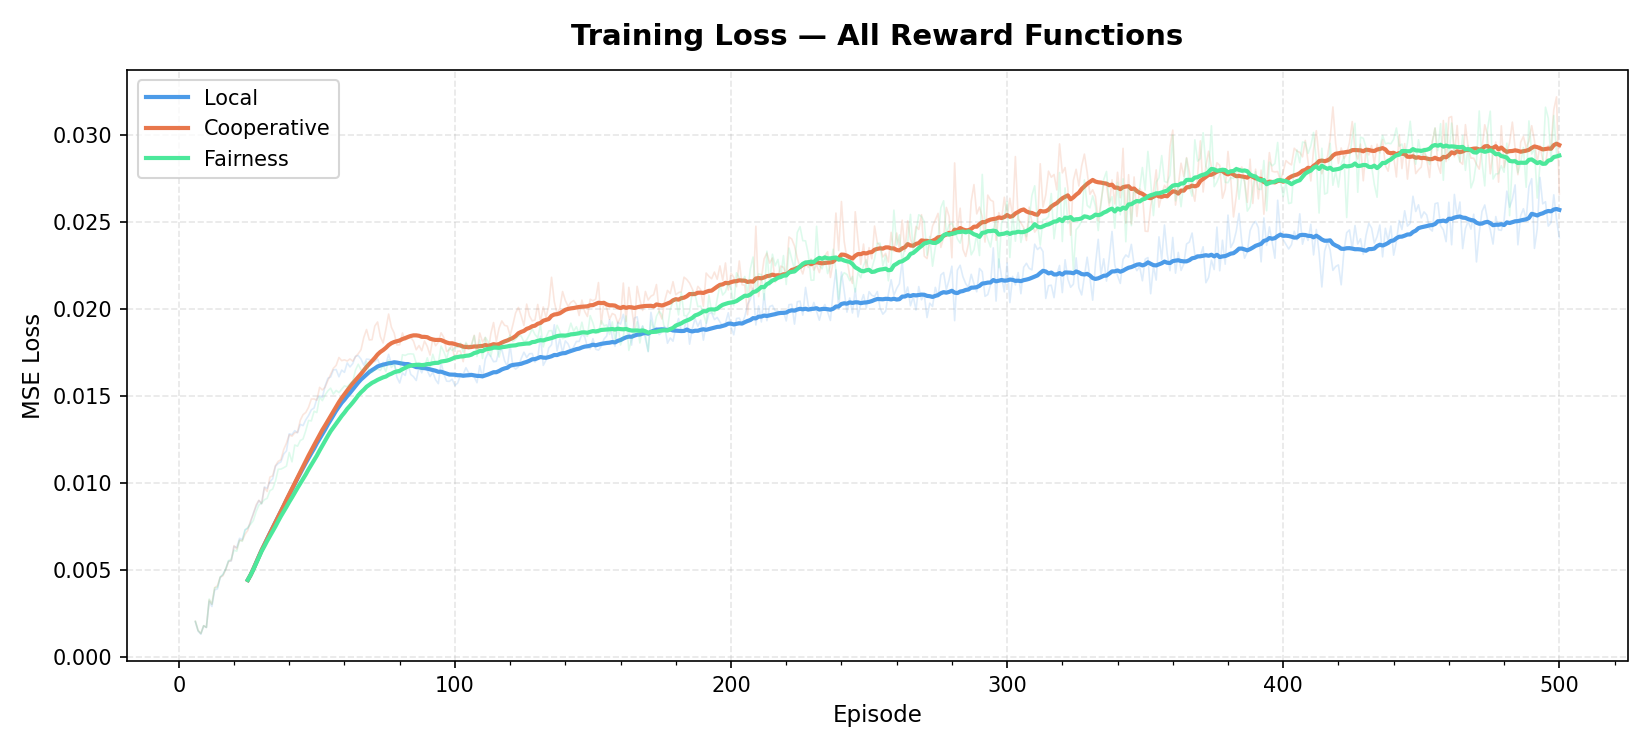
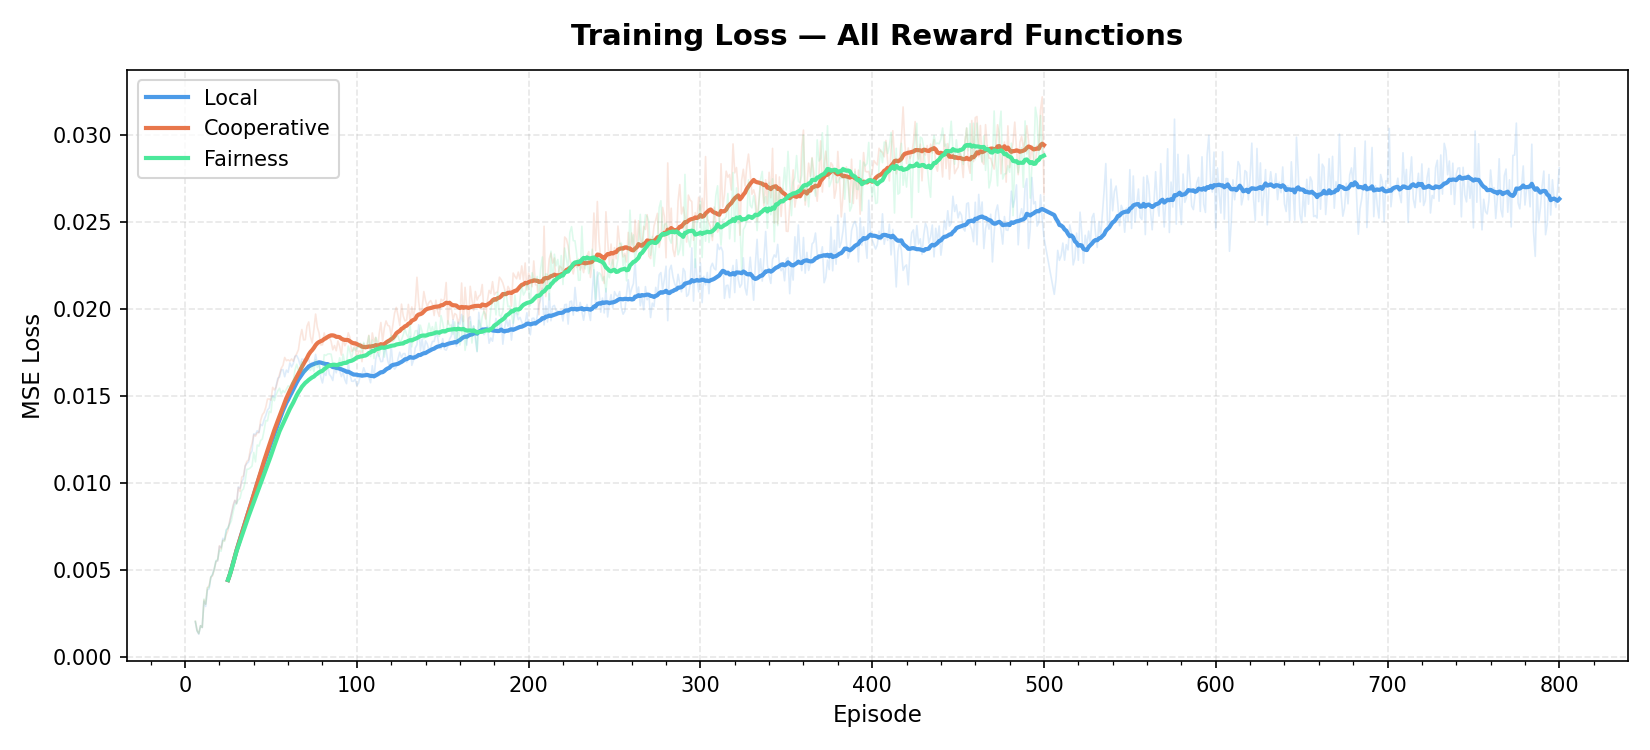
todo 1. makes local only see it own state 2. change the epsilon decay (DONE) 3. remove resume entirely its useless, prob just let it be, and add to README

diff --git a/main.py b/main.py
@@ -143,6 +143,7 @@ def train(args):
 
     # highen the learning starts 
     LEARNING_STARTS = 5000
+    EPSILON_DECAY = 0.999988
     intersections = ['J1', 'J2', 'J4', 'J5']
 
     agents = {}
@@ -156,7 +157,7 @@ def train(args):
             gamma=0.99,
             epsilon=1.0,
             epsilon_min=0.01,
-            epsilon_decay=0.999995,
+            epsilon_decay=EPSILON_DECAY,
             target_update_freq=500
         )
         buffers[junction] = ReplayBuffer(capacity=100000)
@@ -170,10 +171,12 @@ def train(args):
             else:
                 print(f"  WARNING: model not found for {junction}")
         steps_done = (start_episode - 1) * 900
-        resumed_epsilon = max(0.01, 0.999995 ** steps_done)
+        resumed_epsilon = max(0.01, EPSILON_DECAY ** steps_done)
         for junction in intersections:
             agents[junction].epsilon = resumed_epsilon
             agents[junction]._update_target_network()
+
+
         print(f"  Epsilon restored to {resumed_epsilon:.4f}")
 
 
@@ -218,7 +221,6 @@ def train(args):
                         if loss is not None:
                             total_losses.append(loss)
 
-
             new_epsilon = max(0.01, agents['J1'].epsilon * agents['J1'].epsilon_decay)
             for junction in intersections:
                 agents[junction].epsilon = new_epsilon
@@ -230,6 +232,8 @@ def train(args):
                 if env._current_phase[junction] != prev_phases[junction]:
                     phase_changes[junction] += 1
                 prev_phases[junction] = env._current_phase[junction]
+
+            
 
 
 

diff --git a/environment/sumo_env.py b/environment/sumo_env.py
@@ -150,10 +150,10 @@ class SumoEnvironment:
     fix 4 : added yellow feature and updated state size to 13
 
     [
-        j1 queue time, j1 wait time
-        j2 queue time, j2 wait time
-        j4 queue time, j4 wait time
-        j5 queue time, j5 wait time
+        lane 1 queue time, lane 1 wait time
+        lane 2 queue time, lane 2 wait time
+        lane 3 queue time, lane 3 wait time
+        lane 4 queue time, lane 4 wait time
         true_phase, min_green_time, is_yellow,
         (neighbour 1), (neighbour 2)
     ]
@@ -168,9 +168,9 @@ class SumoEnvironment:
             # 4 lanes × 2 features = 8 values
             for lane in self.lanes[junction]:
                 queue = traci.lane.getLastStepHaltingNumber(lane)
-                wait = traci.lane.getWaitingTime(lane)/max(1,queue) if queue > 0 else 0.0
-                obs.append(queue/50.0)
-                obs.append(wait/300.0)
+                wait = min(traci.lane.getWaitingTime(lane), 300.0)
+                obs.append(min(queue, 50) / 50.0)
+                obs.append(wait / 300.0)
 
             true_phase = self._get_true_phase(junction)
             obs.append(true_phase / max(1, self.num_phases[junction] - 1))

diff --git a/README.md b/README.md
@@ -125,13 +125,11 @@ With options:
 python main.py --reward cooperative --scenario off_peak --episodes 300 --gui --seed 42
 ```
 
+NOTE: RESUME DOESNT WORK AS OF CURRENTLY
 Resume training to episodes(loads `agent_<junction>_final.pth` from the output folder):
 
 ```bash
-python main.py --resume outputs/local_peak_20250101_120000 --start_episode 201 --episodes 500
-python main.py --resume outputs/local_peak_20260521_160033 --start_episode 301 --episodes 500
-
-python main.py --resume outputs/cooperative_peak_20260522_135204 --start_episode 
+python main.py --resume outputs/local_peak_20260602_142746 --episodes 800
 ```
 
 Plot results from a completed run:
